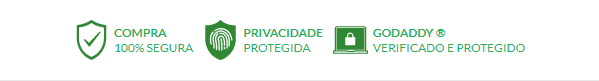
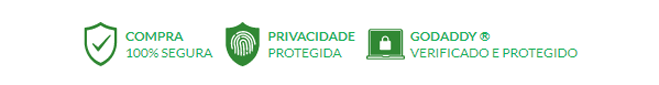
ajuste na margem

Changed region(s): [[0.1202, 0.2469, 0.9015, 0.7901]]

diff --git a/treine_em_casa.html b/treine_em_casa.html
@@ -84,7 +84,7 @@
             </div>
         </div>
     </section> -->
-    <section id="workout-home" class="intro route bg-image" style="background-color: black;">
+    <section id="workout-home" class="intro route bg-image pt-5" style="background-color: black;">
         <div class="overlay-itro"></div>
         <div class="intro-content display-table">
             <div class="table-cell">
@@ -135,7 +135,7 @@
                                     <div class="row">
                                         <div class="workout-img mx-auto">
                                             
-                                            <img src="assets/img/treine_em_casa_intro2.png"
+                                            <img src="assets/img/treine_em_casa_intro.png"
                                                 class="img-responsive b-shadow-a p-3" alt="about me">
                                             
                                         </div>
